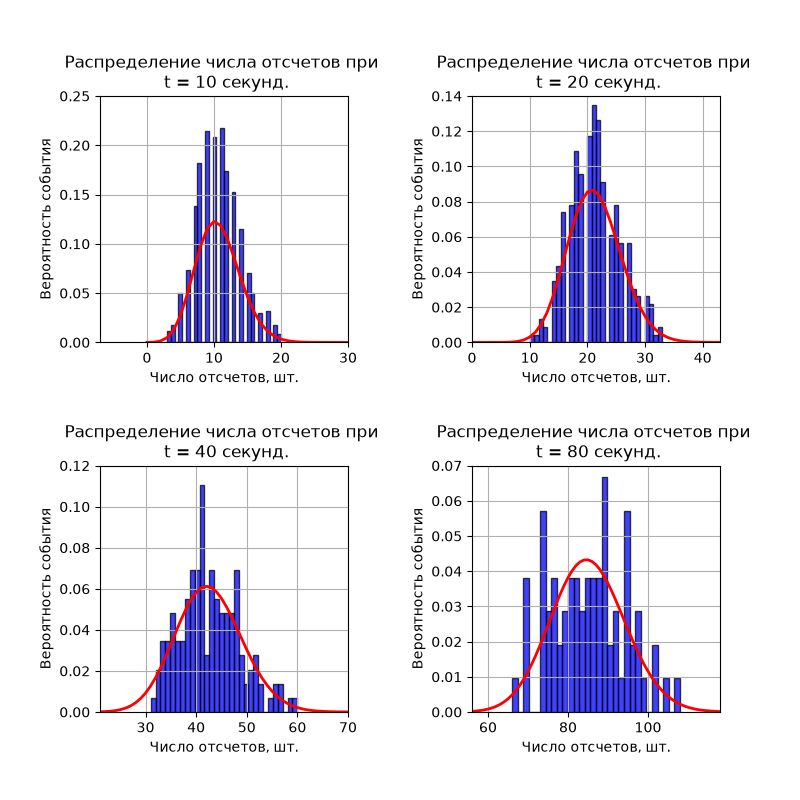
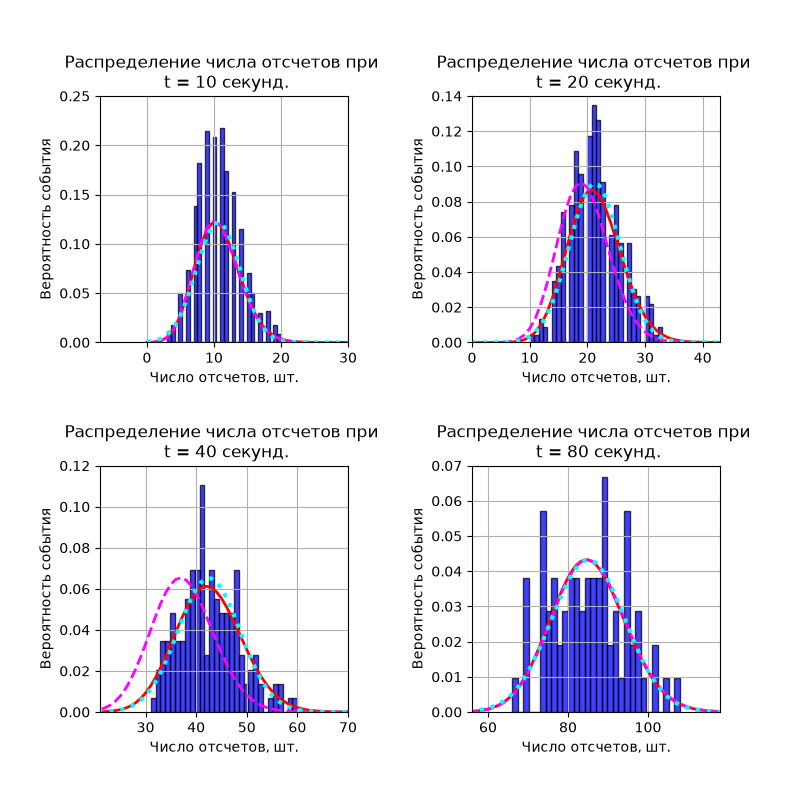
Лаба 1.1.4

diff --git a/Лабы, Рисовашки/Лаба 1.1.4/lab114.py b/Лабы, Рисовашки/Лаба 1.1.4/lab114.py
@@ -28,13 +28,27 @@ def sigma(ln, srn, t):
     return sign, sintn
 
 
-#Постройка частот Пуассона при найденных матожидании и ср_квад_отклонении
-def W(r, srn):
+#Постройка частот Пуассона при найденном матожидании
+def PuasSr(r, srn):
     wn = []
     for i in r:
         wn += [(srn**i) * np.exp(-srn) / factorial(i)]
     return wn
 
+def PuasDes(r, sign):
+    wn = []
+    srn = sign**2
+    for i in r:
+        wn += [(srn**i) * np.exp(-srn) / factorial(i)]
+    return wn
+
+
+def Gauss(r, srn, sign):
+    wn = []
+    for i in r:
+        f = np.exp( -(i - srn )**2 / (2*sign**2) ) / (sign * (2*3.1415)**0.5 )
+        wn += [f]
+    return(wn)
 
 #4 графика на одном листе
 sizes = np.array([[0.25, 0.14], [0.12, 0.07]])
@@ -57,7 +71,9 @@ for i in range(2):
      
 
         n, bins, patches = axes[i, j].hist(l80, 30, density=True, facecolor='blue', edgecolor='black', alpha=0.75)
-        axes[i, j].plot([i for i in range(130)], W([i for i in range(130)], sr80), color='red', linewidth=2)
+        axes[i, j].plot([i for i in range(200)], PuasSr([i for i in range(200)], sr80), color='red', linewidth=2, linestyle = '-')
+        axes[i, j].plot([i for i in range(200)], PuasDes([i for i in range(200)], sig80), color='magenta', linewidth=2, linestyle = '--')
+        axes[i, j].plot([i for i in range(200)], Gauss([i for i in range(200)], sr80, sig80), color='cyan', linewidth=3, linestyle = ':')
         axes[i, j].grid(True)
         axes[i, j].axis([np.min(l80)-10, np.max(l80)+10, 0, sizes[i][j] ])
         axes[i, j].set_xlabel('Число отсчетов, шт.')
@@ -75,7 +91,7 @@ for i in range(2):
         sr80 = np.sum(l80)/len(l80)
 
         n, bins, patches = plt.hist(l80, 30, density=True, facecolor=colors[i][j], edgecolor='black', alpha=0.75)
-        plt.plot([i for i in range(130)], W([i for i in range(130)], sr80), color='red', linewidth=3)
+        plt.plot([i for i in range(130)], PuasSr([i for i in range(130)], sr80), color='red', linewidth=3)
         plt.xlabel('Число отсчетов, шт.')
         plt.ylabel('Вероятность события')
         plt.title('Распределение числа отсчетов при различных t.')
